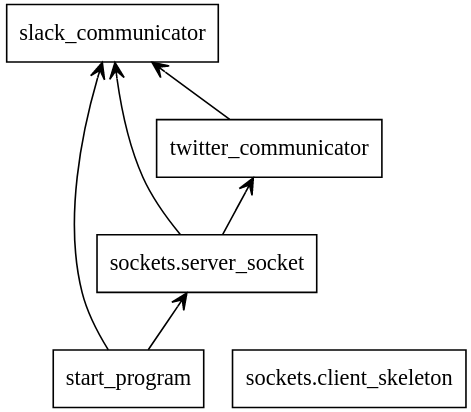
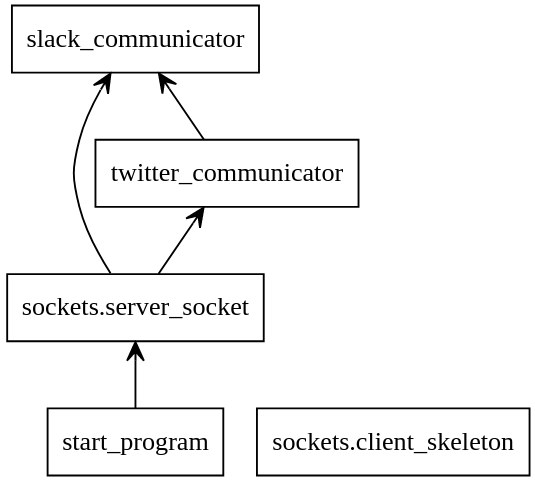
simplfying methods call,to server operate_command  dealing with automate call also

diff --git a/sockets/server_socket.py b/sockets/server_socket.py
@@ -60,8 +60,8 @@ async def socket_controller():
     server_socket = setup_socket()
     client_sockets = []
     loop = asyncio.get_event_loop()
-    out =False
-    while True and out == False:
+    
+    while True:
         await asyncio.sleep(1)
         #await loop.run_in_executor()
         ready_to_read, ready_to_write, in_error =  select.select(
@@ -75,26 +75,27 @@ async def socket_controller():
                 print("New data from client ",str(current_socket))
                 data = recieve_message(current_socket)
                 
-                print(data)
                 client_sockets.remove(current_socket)
                 current_socket.close()
-                if data['command'] == 's':
-                    #server_socket.remove(current_socket)
-                    server_socket.close()
-                    out = True
-                    os._exit(1)
-                elif data['command'] == 'now':
-                    now = datetime.now()
-                    current_time = now.strftime("%m/%d/%Y, %H:%M:%S")
-                    slack_communicator.post_message_to_slack(current_time)
-                elif data['command'] == 'new-content' and data['username'] == 'null':
-                    print("-----")
-                    twitter_communicator.check_users_new_tweets()
-                elif data['command'] == 'tweet':
-                    message = data['message']
-                    twitter_communicator.make_tweet(message)
-                elif data['command'] == 'new-content':
-                    username = data['username']
-                    twitter_communicator.get_last_hour_user_tweet(username)
-                
-                
+                await operate_command(data)
+                                
+async def operate_command(data):
+    print(data)
+    
+    if data['command'] == 's':
+        #server_socket.remove(current_socket)
+        #server_socket.close()
+        os._exit(1)
+    elif data['command'] == 'now':
+        now = datetime.now()
+        current_time = now.strftime("%m/%d/%Y, %H:%M:%S")
+        slack_communicator.post_message_to_slack(current_time)
+    elif data['command'] == 'new-content' and data['username'] == 'null':
+        twitter_communicator.check_users_new_tweets()
+    elif data['command'] == 'tweet':
+        message = data['message']
+        twitter_communicator.make_tweet(message)
+    elif data['command'] == 'new-content':
+        username = data['username']
+        twitter_communicator.get_last_hour_user_tweet(username)
+               

diff --git a/start_program.py b/start_program.py
@@ -5,7 +5,7 @@ import asyncio
 import random
 import threading 
 from  sockets.server_socket import socket_controller as sc
-import slack_communicator
+from  sockets.server_socket import operate_command 
 from datetime import datetime
 
 
@@ -23,9 +23,10 @@ async def main( ):
 async def update_time_every_sleep_awake():
     while True:
         await asyncio.sleep(3600)
-        now = datetime.now()
-        current_time = now.strftime("%m/%d/%Y, %H:%M:%S")
-        slack_communicator.post_message_to_slack(current_time)
+
+
+        data =  {'command': 'now'}
+        operate_command(data)
 
 
 if __name__ == "__main__":
